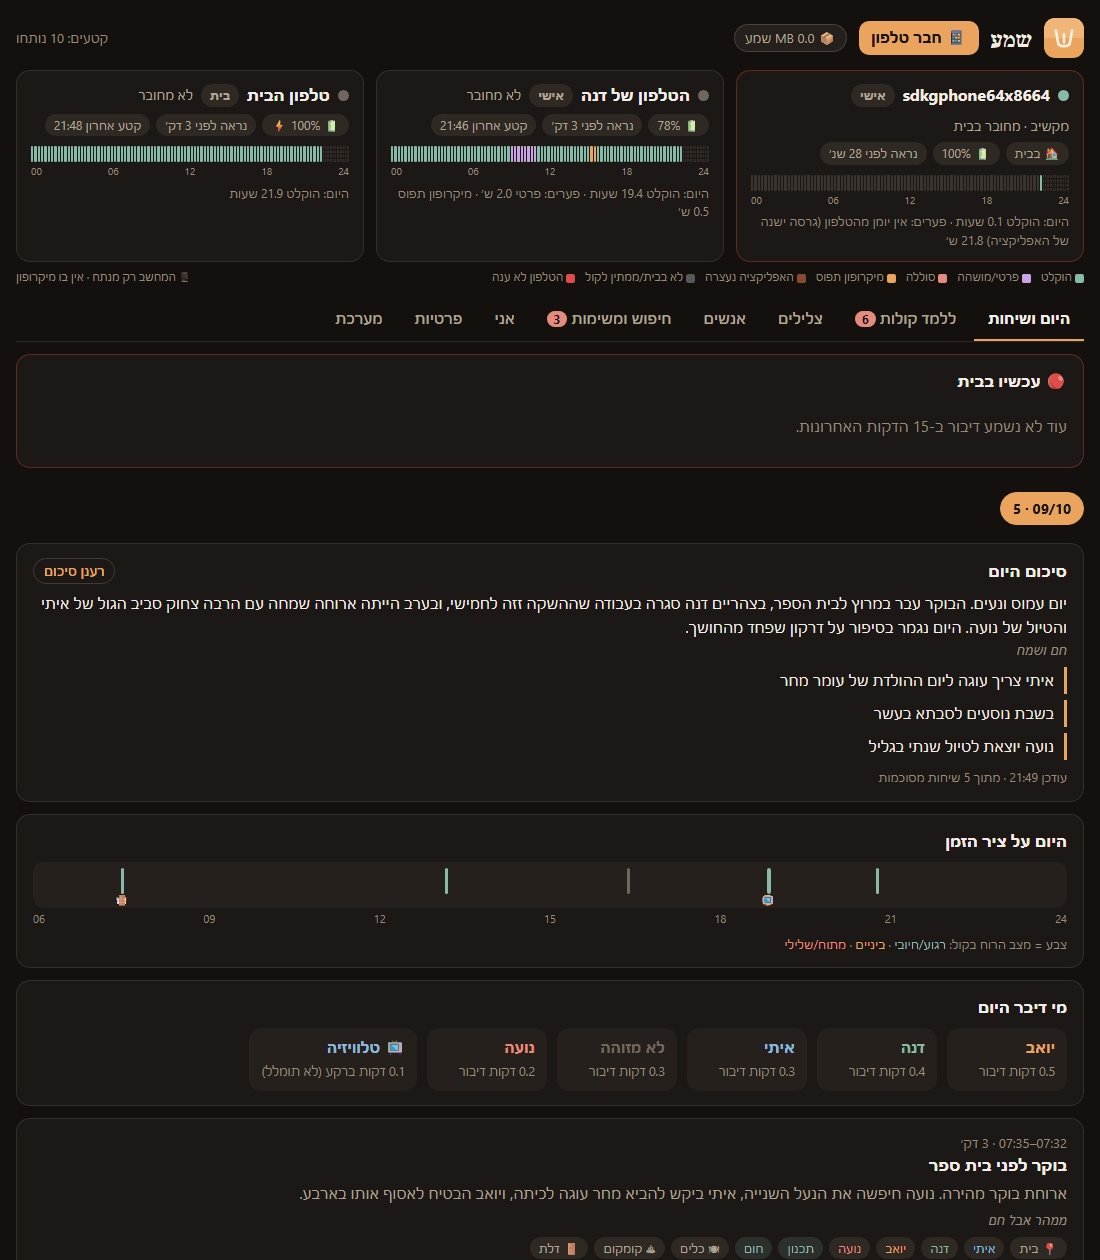
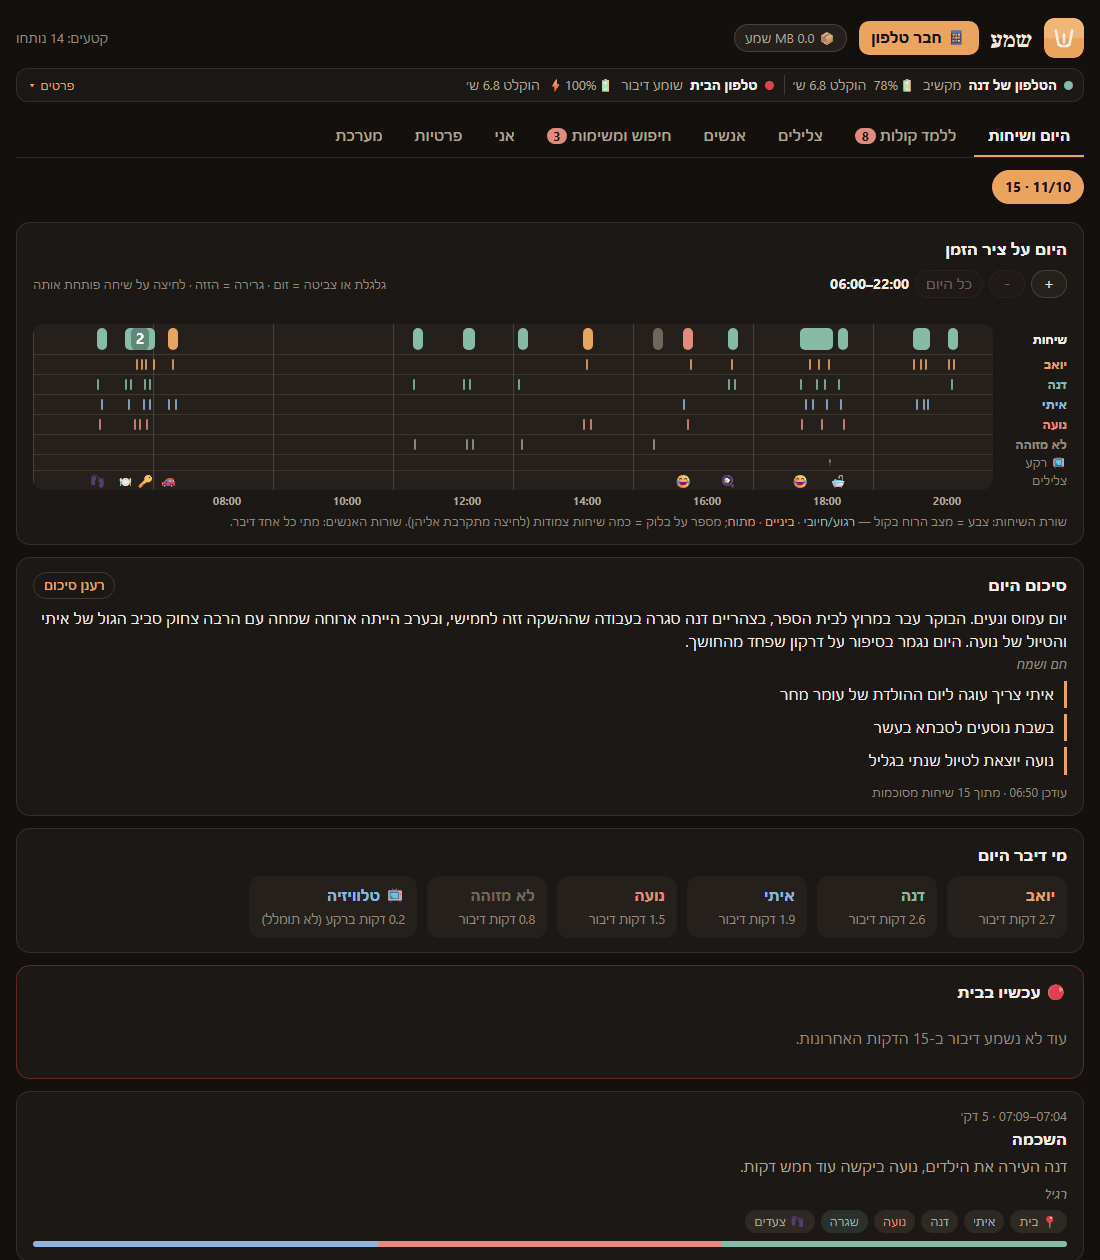
Site screenshot shows the new day timeline; full phone names in the phones line
- docs/pc-day.png: retaken from the invented demo family (no real data) with
  the zoomable timeline first and the collapsed phones line
- the phones line no longer cuts the phone name to two words

diff --git a/server/ui/home.html b/server/ui/home.html
@@ -286,7 +286,7 @@ function phoneChip(p){
   const q = +p.queued || 0, oldest = +p.oldest || 0;
   const warn = [p.vpn === "0" && !p.online ? "Tailscale כבוי?" : "", p.bat && +p.bat > 0 && +p.bat < 15 && p.charging !== "1" ? "סוללה חלשה" : "",
     q && oldest > 48 * 3600 ? `${q} ממתינים` : ""].filter(Boolean).join(" · ");
-  return `<span class="phchip ${speaking ? "on" : ""} ${p.online ? "live" : ""}"><span class="dot"></span><b>${esc(p.device.split(" ").slice(0, 2).join(" "))}</b>
+  return `<span class="phchip ${speaking ? "on" : ""} ${p.online ? "live" : ""}"><span class="dot"></span><b>${esc(p.device)}</b>
     <span>${p.online ? esc((p.state || "").split("·")[0].trim()) : "לא מחובר"}</span>${p.bat && +p.bat > 0 ? `<span>🔋${p.bat}%${p.charging === "1" ? "⚡" : ""}</span>` : ""}
     ${rec != null ? `<span>הוקלט ${rec.toFixed(1)} ש׳</span>` : ""}${warn ? `<span class="w">⚠ ${esc(warn)}</span>` : ""}</span>`;
 }
